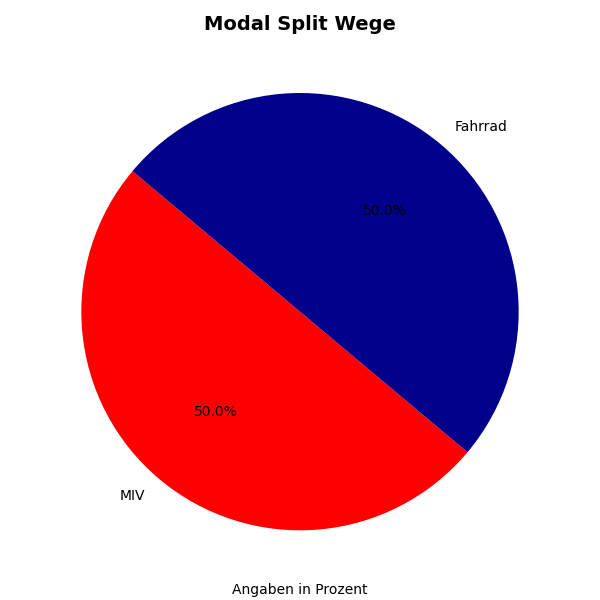
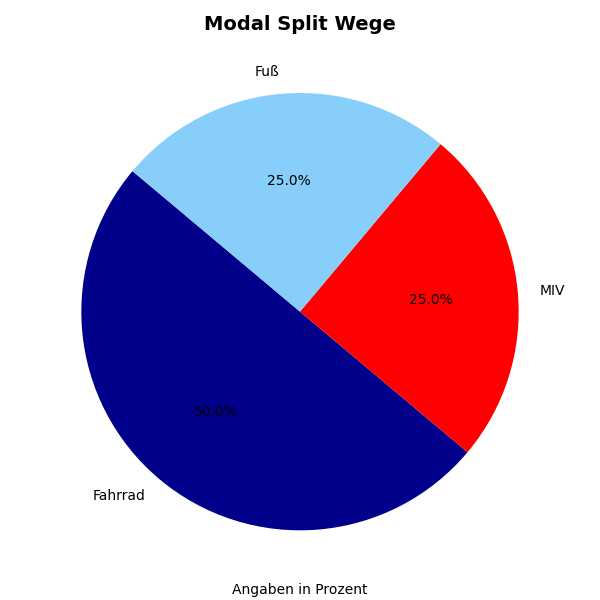
Added a third graph for usage of transport mode. CHanges made together on one device

diff --git a/code/4_additions.py b/code/4_additions.py
@@ -7,13 +7,15 @@ from geopy.distance import geodesic
 from geopy.geocoders import MapBox
 from datetime import datetime
 
+import matplotlib
 import matplotlib.pyplot as plt
 import seaborn as sns
 
-# Zum Anzeigen von PNG-Dateien in Tkinter
+# Wichtig bei manchen Tkinter-Setups auf Windows
+matplotlib.use("Agg")  # Damit kein zusätzliches Matplotlib-Fenster geöffnet wird
+
 from PIL import Image, ImageTk
 
-# Für die interaktive Karte
 # Bitte vorab installieren: pip install tkintermapview
 from tkintermapview import TkinterMapView
 
@@ -55,7 +57,6 @@ def parse_or_reverse_geocode(s):
                 return None
         except ValueError:
             pass
-
     loc = geolocator.geocode(s)
     if loc:
         return (loc.latitude, loc.longitude)
@@ -230,7 +231,6 @@ class TrafficDiaryApp:
         # -----------------------------------
         # Zeile 10: Auswerten-Button
         # -----------------------------------
-        # NEU: nicht direkt analyze_data, sondern open_analysis_options
         ttk.Button(root, text="Jetzt auswerten", command=self.open_analysis_options).grid(
             row=10, column=0, columnspan=2, padx=5, pady=10
         )
@@ -268,67 +268,56 @@ class TrafficDiaryApp:
         Öffnet ein neues Toplevel-Fenster, in dem man auswählen kann,
         welche Benutzer in die Analyse einfließen sollen.
         """
-
-        # Toplevel-Fenster
         options_window = tk.Toplevel(self.root)
         options_window.title("Auswertung anpassen: Benutzer-Auswahl")
 
-        # Frame für die Checkbuttons
         checks_frame = ttk.Frame(options_window)
         checks_frame.pack(padx=10, pady=10, fill=tk.BOTH, expand=True)
 
-        # Liste/Dic zum Speichern der Checkbutton-Variablen
         self.user_check_vars = {}
 
-        # Lade alle Nutzer aus USER_FILE (Vorname & Nachname),
-        # und erstelle für jeden einen Checkbutton
         if os.path.exists(USER_FILE):
             user_df = pd.read_csv(USER_FILE)
-            for index, row in user_df.iterrows():
+            for _, row in user_df.iterrows():
                 full_name = f"{row['Vorname']} {row['Nachname']}"
-                var = tk.BooleanVar(value=True)  # Standard: angehakt
+                var = tk.BooleanVar(value=True)
                 chk = ttk.Checkbutton(checks_frame, text=full_name, variable=var)
                 chk.pack(anchor="w", pady=2)
                 self.user_check_vars[full_name] = var
         else:
-            # Falls keine Benutzer-Datei existiert:
             tk.Label(checks_frame, text="Keine Benutzerdatei gefunden.").pack()
 
-        # Frame mit Buttons "Analyse starten" und "Abbrechen"
         btn_frame = ttk.Frame(options_window)
         btn_frame.pack(padx=10, pady=10, fill=tk.X)
 
         def start_analysis():
-            # Sammle alle Benutzer, die angehakt sind:
             selected_users = [
                 name for name, var_obj in self.user_check_vars.items() if var_obj.get()
             ]
             options_window.destroy()
-            # Rufe die Analyse mit gefilterten Benutzern auf
             self.analyze_data(selected_users)
 
         ttk.Button(btn_frame, text="Analyse starten", command=start_analysis).pack(side=tk.LEFT, padx=5)
         ttk.Button(btn_frame, text="Abbrechen", command=options_window.destroy).pack(side=tk.LEFT, padx=5)
 
     # --------------------------------------------------
-    # Analyse und Diagramme (jetzt mit Filter-Option)
+    # Analyse und Diagramme (3 Diagramme, horizontales Layout + Scroll)
     # --------------------------------------------------
     def analyze_data(self, selected_users=None):
         """
         Führt die Datenanalyse durch.
         selected_users: Liste von Benutzer-Namen, die ausgewertet werden sollen
                         (z.B. ["Max Mustermann", "Lisa Müller", ...]).
-                        Ist None, werden alle genommen.
+                        Ist None oder leer, werden alle Personen ausgewertet.
         """
         df = load_csv(DATA_FILE)
         if df is None or df.empty:
             handle_error("Keine Daten zum Auswerten vorhanden.", self.message_label)
             return
 
-        # Optional Distanz numerisch
         df["Distanz (km)"] = pd.to_numeric(df["Distanz (km)"], errors="coerce")
 
-        # Falls bestimmte Benutzer gefiltert werden sollen:
+        # Benutzer-Filter
         if selected_users:
             df = df[df["Benutzer/in"].isin(selected_users)]
             if df.empty:
@@ -337,8 +326,8 @@ class TrafficDiaryApp:
 
         create_chart_directory()
 
-        # Farbzuordnung
-        color_map = {
+        # --- 1) Modal Split (Anzahl Wege in %) ---
+        color_map_mode = {
             "MIV": "red",
             "MIV-Mitfahrer": "orange",
             "Fuß": "lightskyblue",
@@ -346,11 +335,9 @@ class TrafficDiaryApp:
             "ÖV": "green",
             "Sonstiges": "pink"
         }
-
-        # --- 1) Modal Split (Anzahl Wege in %) ---
         ways_by_mode_percent = df["Modus"].value_counts(normalize=True) * 100
         ways_modes = ways_by_mode_percent.index
-        ways_colors = [color_map.get(m, "grey") for m in ways_modes]
+        ways_colors = [color_map_mode.get(m, "grey") for m in ways_modes]
 
         ways_chart_path = os.path.join(CHART_DIRECTORY, "modal_split_ways.png")
         plt.figure(figsize=(6, 6))
@@ -376,7 +363,7 @@ class TrafficDiaryApp:
 
         km_by_mode_percent = (km_sum_by_mode / total_km) * 100
         km_modes = km_by_mode_percent.index
-        km_colors = [color_map.get(m, "grey") for m in km_modes]
+        km_colors = [color_map_mode.get(m, "grey") for m in km_modes]
 
         km_chart_path = os.path.join(CHART_DIRECTORY, "modal_split_km.png")
         plt.figure(figsize=(6, 6))
@@ -393,22 +380,108 @@ class TrafficDiaryApp:
         plt.savefig(km_chart_path)
         plt.close()
 
-        # Ergebnis-Fenster
-        analysis_window = tk.Toplevel(self.root)
-        analysis_window.title("Analyse Ergebnisse: Modal Split")
+        # --- 3) Verkehrsaufkommen (Wege) ---
+        color_map_purpose = {
+            "Arbeit": "lightskyblue",
+            "Dienstlich": "blue",
+            "Ausbildung": "darkblue",
+            "Einkauf": "brown",  # "kastanienrot"
+            "Erledigung": "red",
+            "Freizeit": "yellow",
+            "Begleitung": "lightgreen"
+        }
+        wegezweck_counts = df["Wegezweck"].value_counts(normalize=True) * 100
+        wegezweck_list = wegezweck_counts.index
+        wegezweck_colors = [color_map_purpose.get(wz, "grey") for wz in wegezweck_list]
 
+        wegezweck_chart_path = os.path.join(CHART_DIRECTORY, "verkehrsaufkommen_wege.png")
+        plt.figure(figsize=(6, 6))
+        plt.pie(
+            wegezweck_counts,
+            labels=wegezweck_list,
+            autopct="%.1f%%",
+            startangle=140,
+            colors=wegezweck_colors
+        )
+        plt.title("Verkehrsaufkommen (Wege)", fontsize=14, fontweight="bold")
+        plt.figtext(0.5, 0.01, "Angaben in Prozent", ha="center", fontsize=10)
+        plt.tight_layout()
+        plt.savefig(wegezweck_chart_path)
+        plt.close()
+
+        # ---------------------------------------
+        # NEU: Scrollbares Fenster für die Diagramme
+        # ---------------------------------------
+        analysis_window = tk.Toplevel(self.root)
+        analysis_window.title("Analyse Ergebnisse: Modal Split und Verkehrsaufkommen")
+
+        # 1) Container Frame
+        container = ttk.Frame(analysis_window)
+        container.pack(fill=tk.BOTH, expand=True)
+
+        # 2) Canvas
+        canvas = tk.Canvas(container)
+        canvas.pack(side=tk.LEFT, fill=tk.BOTH, expand=True)
+
+        # 3) Scrollbar
+        scrollbar = ttk.Scrollbar(container, orient="vertical", command=canvas.yview)
+        scrollbar.pack(side=tk.RIGHT, fill=tk.Y)
+
+        canvas.configure(yscrollcommand=scrollbar.set)
+
+        # 4) Frame im Canvas, das die Diagramme enthält
+        diagrams_frame = ttk.Frame(canvas)
+        # Erzeugt ein Fenster im Canvas an Position (0,0)
+        canvas.create_window((0, 0), window=diagrams_frame, anchor="nw")
+
+        # 5) Funktion, um Scrollregion zu aktualisieren
+        def on_frame_configure(event):
+            canvas.configure(scrollregion=canvas.bbox("all"))
+
+        diagrams_frame.bind("<Configure>", on_frame_configure)
+
+        # 6) Option: Scrollen mit dem Mausrad
+        # (Auf Windows: event.delta. Auf Linux: event.num=4 oder 5)
+        def _on_mousewheel(event):
+            # Windows / MacOS
+            if event.delta:
+                canvas.yview_scroll(int(-1 * (event.delta / 120)), "units")
+            else:
+                # Linux
+                if event.num == 4:
+                    canvas.yview_scroll(-1, "units")
+                elif event.num == 5:
+                    canvas.yview_scroll(1, "units")
+
+        # Events binden
+        diagrams_frame.bind("<MouseWheel>", _on_mousewheel)       # Windows
+        diagrams_frame.bind("<Button-4>", _on_mousewheel)         # Linux scroll up
+        diagrams_frame.bind("<Button-5>", _on_mousewheel)         # Linux scroll down
+
+        # ------------------------------
+        # Diagramme nebeneinander platzieren
+        # ------------------------------
         try:
+            # 1) Modal Split Wege
             ways_img = Image.open(ways_chart_path)
             ways_photo = ImageTk.PhotoImage(ways_img)
-            ways_label = tk.Label(analysis_window, image=ways_photo)
+            ways_label = tk.Label(diagrams_frame, image=ways_photo)
             ways_label.image = ways_photo
             ways_label.pack(side=tk.LEFT, padx=10, pady=10)
 
+            # 2) Modal Split Personenkilometer
             km_img = Image.open(km_chart_path)
             km_photo = ImageTk.PhotoImage(km_img)
-            km_label = tk.Label(analysis_window, image=km_photo)
+            km_label = tk.Label(diagrams_frame, image=km_photo)
             km_label.image = km_photo
             km_label.pack(side=tk.LEFT, padx=10, pady=10)
+
+            # 3) Verkehrsaufkommen (Wege)
+            wz_img = Image.open(wegezweck_chart_path)
+            wz_photo = ImageTk.PhotoImage(wz_img)
+            wz_label = tk.Label(diagrams_frame, image=wz_photo)
+            wz_label.image = wz_photo
+            wz_label.pack(side=tk.LEFT, padx=10, pady=10)
 
         except Exception as e:
             handle_error(f"Fehler beim Laden der Diagramme: {e}", self.message_label)
@@ -481,7 +554,7 @@ class TrafficDiaryApp:
         user_window.bind("<Return>", save_user)
 
     # --------------------------------------------------
-    # Tooltip-Methoden
+    # Tooltip-Methoden für Verkehrsmittel / Wegezweck
     # --------------------------------------------------
     def show_mode_tooltip(self, event):
         if self.tooltip_window_mode is not None:
